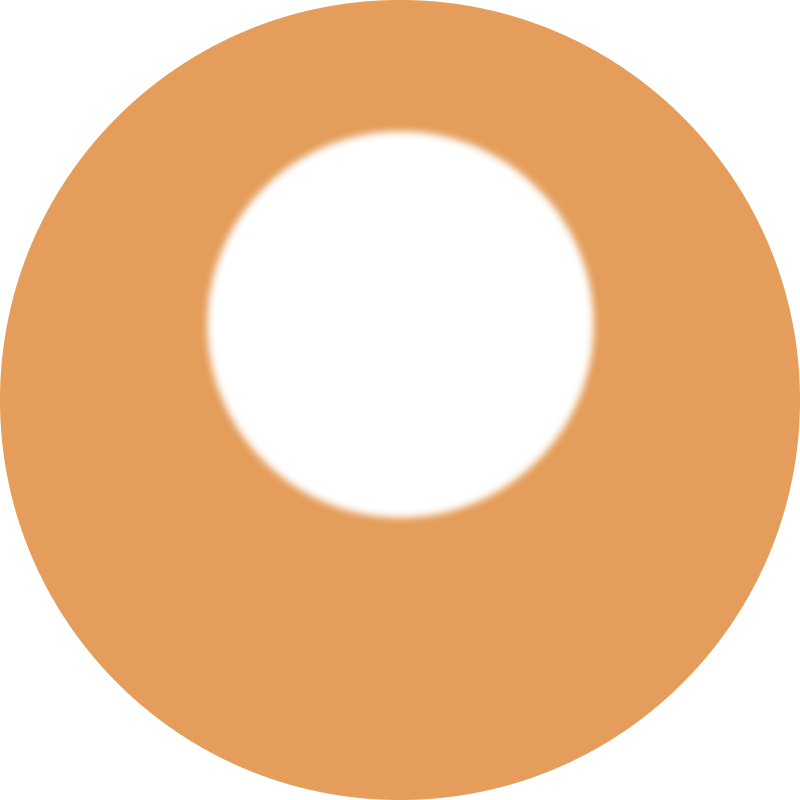
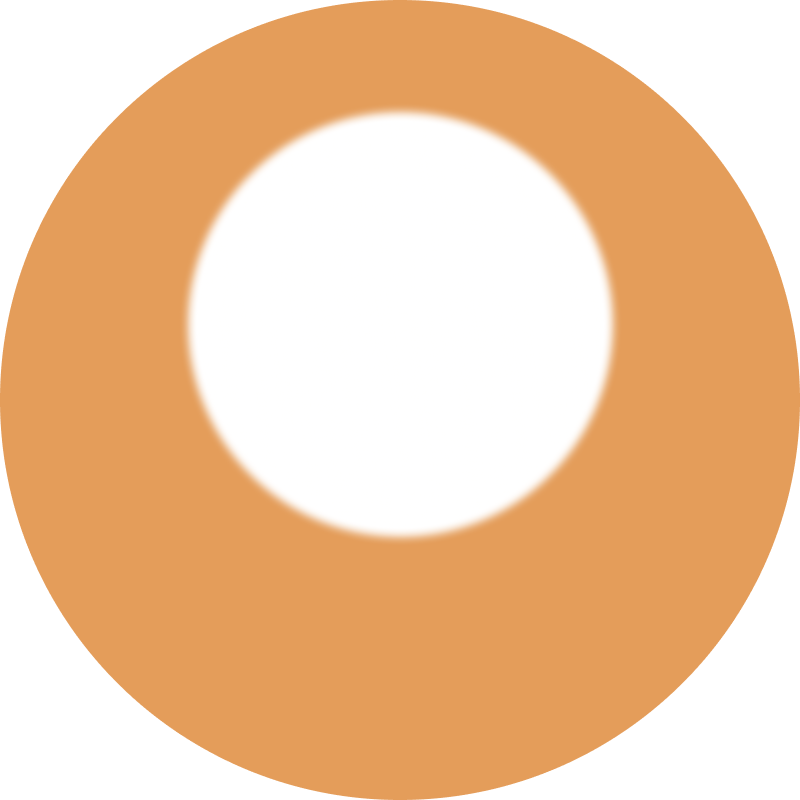
do the action with the cup and modify UI

Changed region(s): [[0.2188, 0.125, 0.7812, 0.6875]]

diff --git a/styles.css b/styles.css
@@ -9,104 +9,112 @@ body {
   display: flex;
   flex-direction: column;
   align-items: center;
+  /* justify-content: center; */
 }
 
 /* 🌟 標題樣式 */
 h1 {
   font-size: 2rem;
-  margin-top: 20px;
-  padding: 0 20px;
+  margin: 10px 0 40px 0;
+}
+
+/* 📝 提示文字樣式 */
+.instruction {
+  font-size: 1.4rem;
+  margin: 0 0 32px 0;
+  color: #4a4746;
+  min-height: 1.5em;
+  font-weight: 400;
+  padding: 10px 20px;
+  background-color: rgba(255, 255, 255, 0.8);
+  border-radius: 10px;
+  /* box-shadow: 0 2px 6px rgba(177, 98, 74, 0.2); */
+  transition: all 0.3s ease;
 }
 
 /* 🎨 畫布容器：保持正方形 */
 #canvas-container {
-  position: relative;
-  width: min(80vw, 500px); /* 使用 min 函數確保最大寬度 */
+  width: min(80vw, 500px);
   aspect-ratio: 1;
-  margin: 20px auto;
+  margin: 0 auto;
   border-radius: 50%;
-  overflow: hidden;
-  border: 20px solid #fff;
-
-  /* 柔和的陰影效果 */
-  box-shadow: 0 10px 30px rgba(0, 0, 0, 0.1),
-    /* 外層柔和陰影 */ 0 5px 15px rgba(0, 0, 0, 0.07),
-    /* 中層陰影 */ inset 0 -3px 10px rgba(0, 0, 0, 0.05); /* 內層細微陰影 */
-
-  /* 防止 iOS 上的變形 */
-  -webkit-transform: translateZ(0);
-  transform: translateZ(0);
+  /* overflow: hidden; */
+  border: 20px solid #f5f5f5;
+  cursor: pointer;
+  box-shadow: 0 10px 30px rgba(134, 37, 37, 0.1),
+    0 5px 15px rgba(80, 53, 21, 0.07), inset 0 1px 30px rgba(197, 83, 2, 0.1);
+  display: flex;
+  justify-content: center;
+  align-items: center;
+  filter: blur(0.3px);
 }
 
 /* 🎨 畫布：變成圓形 */
 #fluidCanvas {
-  position: absolute;
-  top: 0;
-  left: 0;
-  width: 100%;
-  height: 100%;
+  width: 98%;
+  height: 98%;
   border-radius: 50%;
-  touch-action: none; /* 防止 iOS 上的觸控問題 */
+  touch-action: none;
 }
 
 /* 🌟 按鈕樣式 */
-button {
-  width: 50%; /* 設為畫布的一半寬 */
-  margin: 20px auto;
+#restartButton {
+  margin: 32px 0;
+  width: 20%;
+  min-width: 200px;
   background-color: #cb7f53;
   color: white;
   border: none;
-  padding: 15px 0; /* 增加上下內距 */
-  font-size: 18px; /* 放大字體 */
-  border-radius: 15px; /* 增加圓角 */
+  padding: 15px 0;
+  font-size: 18px;
+  border-radius: 15px;
   cursor: pointer;
   transition: all 0.3s ease-in-out;
-  box-shadow: 4px 4px 8px #b69c7d, -4px -4px 8px #e4c3a6;
+  box-shadow: 2px 2px 4px #b69c7d, -2px -2px 4px #e4c3a6;
   outline: none;
   -webkit-tap-highlight-color: transparent;
-  display: block; /* 確保寬度生效 */
+}
+
+/* 隱藏元素 */
+#restartButton.hidden {
+  display: none !important;
 }
 
 /* 💻 電腦 hover 效果 */
 @media (hover: hover) {
-  button:hover {
+  #restartButton:hover {
     background-color: #b88665;
   }
-
-  /* 滑鼠點擊效果 */
-  button:active {
+  #restartButton:active {
     background-color: #a97050;
     transform: scale(0.95);
   }
 }
 
 /* 📱 手機點擊效果 */
-button:active {
+#restartButton:active {
   background-color: #a97050;
   transform: scale(0.95);
 }
 
 /* 🎯 響應式調整 */
-/* 大型螢幕 */
 @media screen and (min-width: 1200px) {
   #canvas-container {
-    width: min(45vw, 450px); /* 縮小最大寬度 */
-    border-width: 20px; /* 稍微減少邊框寬度 */
-  }
-}
-
-/* 中型螢幕 */
-@media screen and (min-width: 769px) and (max-width: 1199px) {
-  #canvas-container {
-    width: min(55vw, 450px); /* 調整為更合適的尺寸 */
+    width: min(45vw, 450px);
     border-width: 20px;
   }
 }
 
-/* 平板 */
+@media screen and (min-width: 769px) and (max-width: 1199px) {
+  #canvas-container {
+    width: min(55vw, 450px);
+    border-width: 20px;
+  }
+}
+
 @media screen and (min-width: 481px) and (max-width: 768px) {
   body {
-    padding: 15px;
+    padding: 10px;
   }
 
   h1 {
@@ -118,13 +126,12 @@ button:active {
     border-width: 18px;
   }
 
-  button {
+  #restartButton {
     padding: 14px 0;
     font-size: 17px;
   }
 }
 
-/* 手機 */
 @media screen and (max-width: 480px) {
   body {
     padding: 10px;
@@ -134,30 +141,18 @@ button:active {
     font-size: 1.5rem;
   }
 
+  .instruction {
+    font-size: 1.2rem;
+    padding: 8px 16px;
+  }
+
   #canvas-container {
-    width: min(85vw, 350px);
+    width: min(80vw, 350px);
     border-width: 15px;
   }
 
-  button {
+  #restartButton {
     padding: 12px 0;
     font-size: 16px;
-  }
-}
-
-/* 超小螢幕 */
-@media screen and (max-width: 320px) {
-  h1 {
-    font-size: 1.3rem;
-  }
-
-  #canvas-container {
-    width: 90vw;
-    border-width: 12px;
-  }
-
-  button {
-    padding: 10px 0;
-    font-size: 15px;
   }
 }

diff --git a/main.js b/main.js
@@ -6,35 +6,59 @@ const simulation = new FluidSimulation("fluidCanvas");
 // 添加視窗大小變化監聽
 simulation.addResizeListener();
 
-// 獲取按鈕元素
-const button = document.getElementById("testButton");
+// 獲取元素
+const canvas = document.getElementById("fluidCanvas");
+const instruction = document.getElementById("instruction");
+const restartButton = document.getElementById("restartButton");
 
-// 設置按鈕初始文字
-button.textContent = "按住倒牛奶 🥛";
-
-// 監聽按鈕事件
+// 控制變數
 let currentPhase = "pour";
 let isPouring = false;
 let pourTimer = null;
 let currentIndex = 0;
 
-// 按住按鈕開始倒奶
-button.addEventListener("mousedown", startPouring);
-button.addEventListener("touchstart", (e) => {
+// 更新提示文字
+function updateInstruction() {
+  switch (currentPhase) {
+    case "pour":
+      instruction.textContent = "🥛 按住咖啡杯倒牛奶 🥛";
+      restartButton.classList.add("hidden"); // 確保按鈕隱藏
+      break;
+    case "cocoa":
+      instruction.textContent = "🍫 點擊撒上可可粉 🍫";
+      restartButton.classList.add("hidden"); // 確保按鈕隱藏
+      break;
+    case "complete":
+      instruction.textContent = "❤ 完成了好香！ ❤";
+      restartButton.classList.remove("hidden"); // 只在完成時顯示按鈕
+      break;
+  }
+}
+
+// 監聽畫布事件
+canvas.addEventListener("mousedown", startPouring);
+canvas.addEventListener("touchstart", (e) => {
   e.preventDefault();
   startPouring();
 });
 
-// 放開按鈕停止倒奶
-button.addEventListener("mouseup", stopPouring);
-button.addEventListener("touchend", (e) => {
+canvas.addEventListener("mouseup", stopPouring);
+canvas.addEventListener("touchend", (e) => {
   e.preventDefault();
   stopPouring();
 });
 
-// 滑鼠/手指離開按鈕也要停止
-button.addEventListener("mouseleave", stopPouring);
-button.addEventListener("touchcancel", stopPouring);
+canvas.addEventListener("mouseleave", stopPouring);
+canvas.addEventListener("touchcancel", stopPouring);
+
+// 監聽重新開始按鈕
+restartButton.addEventListener("click", () => {
+  currentIndex = 0;
+  currentPhase = "pour";
+  simulation.drawImage(0);
+  restartButton.classList.add("hidden");
+  updateInstruction();
+});
 
 // 開始倒奶
 function startPouring() {
@@ -45,7 +69,7 @@ function startPouring() {
       currentIndex++;
       simulation.drawImage(currentIndex);
     }
-    // 設置定時器，每 300ms 切換一次圖片
+    // 設置定時器，每 500ms 切換一次圖片
     pourTimer = setInterval(() => {
       if (currentIndex < 10) {
         currentIndex++;
@@ -54,7 +78,17 @@ function startPouring() {
           stopPouring();
         }
       }
-    }, 300);
+    }, 500);
+  } else if (currentPhase === "cocoa") {
+    // 撒可可粉階段，每次點擊前進一張
+    if (currentIndex < 15) {
+      currentIndex++;
+      simulation.drawImage(currentIndex);
+      if (currentIndex >= 15) {
+        currentPhase = "complete";
+        updateInstruction();
+      }
+    }
   }
 }
 
@@ -69,22 +103,10 @@ function stopPouring() {
 
   if (currentPhase === "pour" && currentIndex >= 10) {
     currentPhase = "cocoa";
-    button.textContent = "撒上可可粉 🍫";
-  } else if (currentPhase === "cocoa") {
-    // 撒可可粉階段，每次點擊前進一張
-    if (currentIndex < 15) {
-      currentIndex++;
-      simulation.drawImage(currentIndex);
-      if (currentIndex >= 15) {
-        currentPhase = "restart";
-        button.textContent = "再拉一次 ❤";
-      }
-    }
-  } else if (currentPhase === "restart") {
-    // 重新開始
-    currentIndex = 0;
-    currentPhase = "pour";
-    simulation.drawImage(currentIndex);
-    button.textContent = "按住倒牛奶 🥛";
+    updateInstruction();
+    restartButton.classList.add("hidden"); // 確保按鈕隱藏
   }
 }
+
+// 初始化提示文字
+updateInstruction();

diff --git a/index.html b/index.html
@@ -8,14 +8,15 @@
   </head>
   <body>
     <h1>泡杯咖啡給最愛的妳 ☕</h1>
+    <p id="instruction" class="instruction">按住畫布開始倒牛奶</p>
 
     <!-- 畫布容器 -->
     <div id="canvas-container">
       <canvas id="fluidCanvas"></canvas>
     </div>
 
-    <!-- 測試按鈕 -->
-    <button id="testButton"></button>
+    <!-- 重新開始按鈕 (一開始隱藏) -->
+    <button id="restartButton" class="hidden">✨ 再來一次 ✨</button>
 
     <!-- 引入 JavaScript -->
     <script type="module" src="main.js"></script>
